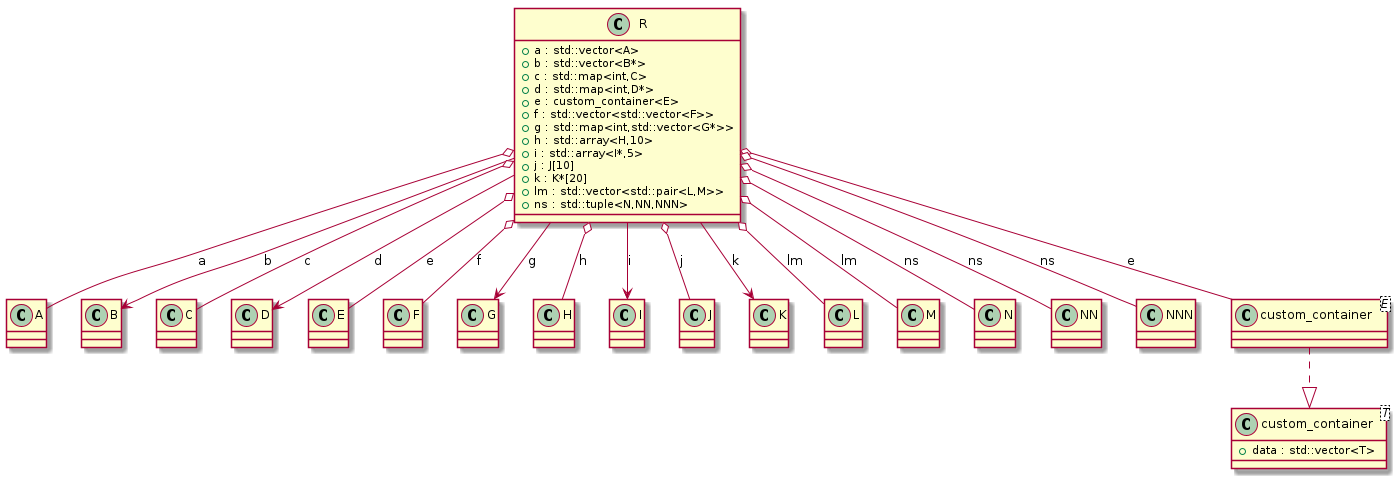
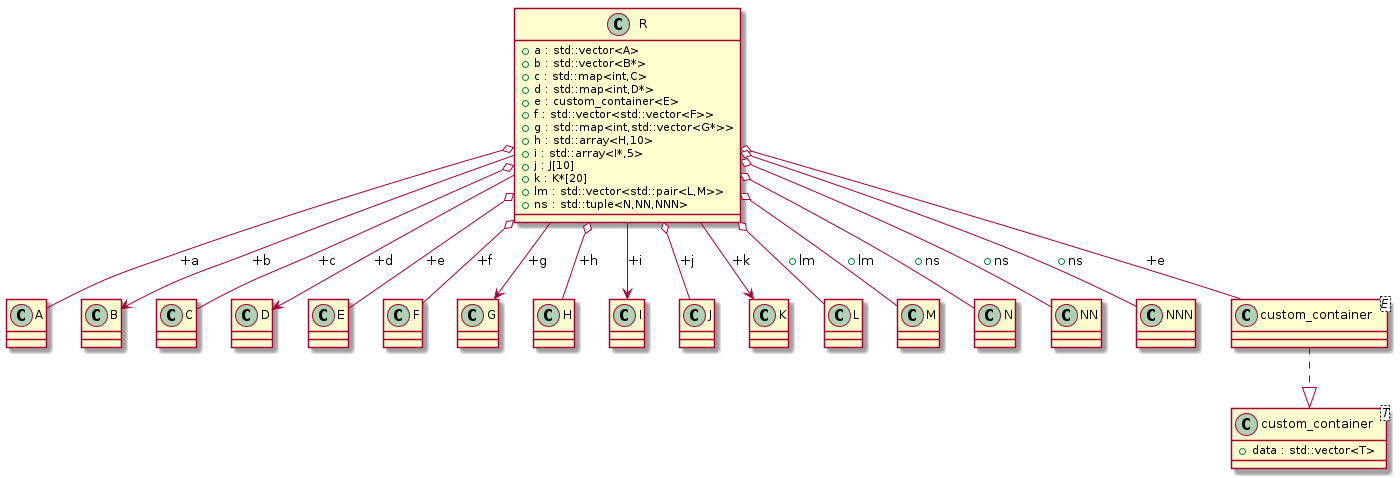
Updated test cases documentation

diff --git a/docs/test_cases/t00014.md b/docs/test_cases/t00014.md
@@ -71,7 +71,11 @@ class R {
     AString<float> floatstring;
     AIntString intstring;
     AStringString stringstring;
+
+protected:
     BVector bs;
+
+public:
     BVector2 bs2;
     GeneralCallback<AIntString> cb;
     VoidCallback vcb;
